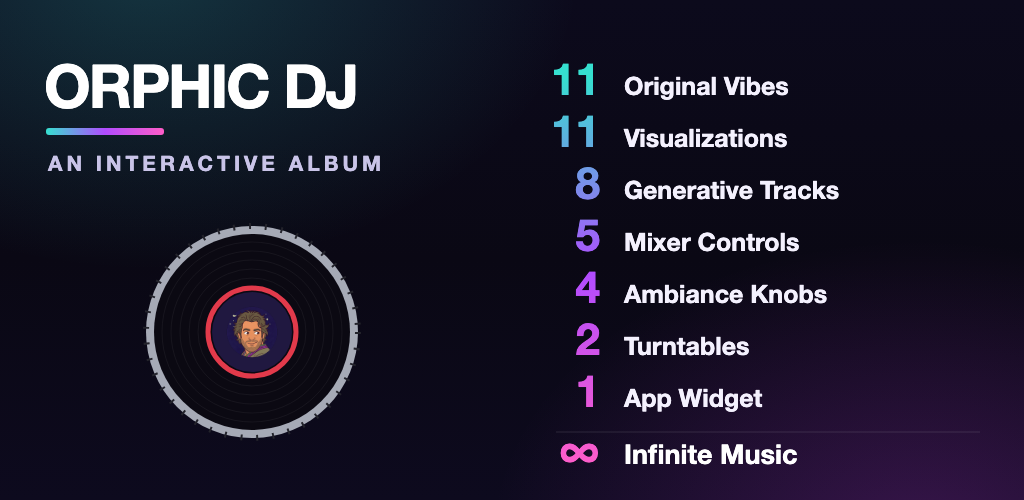
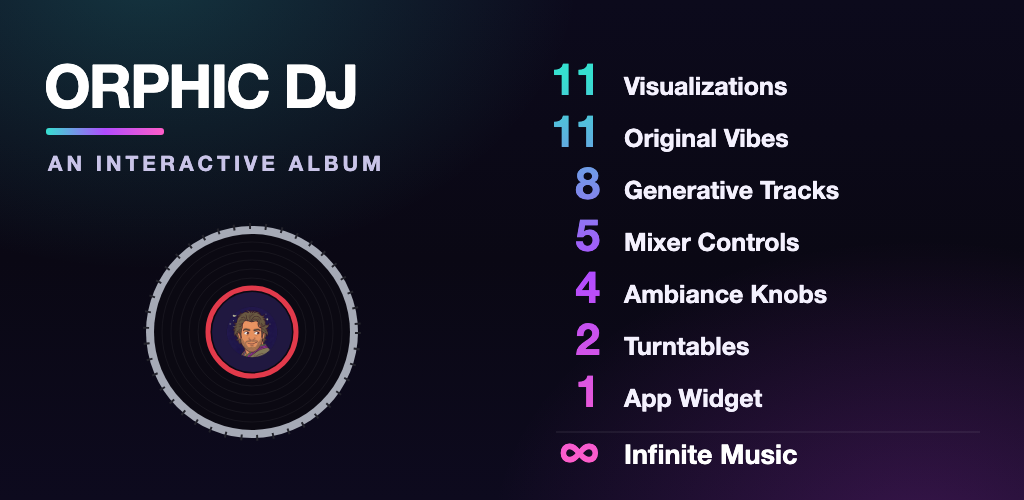
docs(djapp): write the 2.0.3 listing copy for Play
The what's-new leads with the weather and the solos, and says plainly that Rust
Belt is now Rusted Coast rather than presenting it as a new vibe. The vibe count
in both the description and the feature graphic said 9 and had been wrong since
before 2.0.2 — the catalog has carried 11 live vibes for two releases — so both
are corrected and the graphic regenerated. A new section names phone, tablet and
TV, since the TV form factor is about to become visible in the store.

Changed region(s): [[0.5938, 0.15, 0.7812, 0.21], [0.5938, 0.24, 0.7812, 0.3]]

diff --git a/apps/djapp/play-store/assets/framed/feature-graphic.html b/apps/djapp/play-store/assets/framed/feature-graphic.html
@@ -73,7 +73,7 @@
 
       <text x="600" y="95" font-size="44" font-weight="800" text-anchor="end" fill="url(#accentV)">11</text>
       <text x="624" y="95" font-size="25" font-weight="600" fill="#F4F1FE">Visualizations</text>
-      <text x="600" y="147" font-size="44" font-weight="800" text-anchor="end" fill="url(#accentV)">9</text>
+      <text x="600" y="147" font-size="44" font-weight="800" text-anchor="end" fill="url(#accentV)">11</text>
       <text x="624" y="147" font-size="25" font-weight="600" fill="#F4F1FE">Original Vibes</text>
       <text x="600" y="199" font-size="44" font-weight="800" text-anchor="end" fill="url(#accentV)">8</text>
       <text x="624" y="199" font-size="25" font-weight="600" fill="#F4F1FE">Generative Tracks</text>
